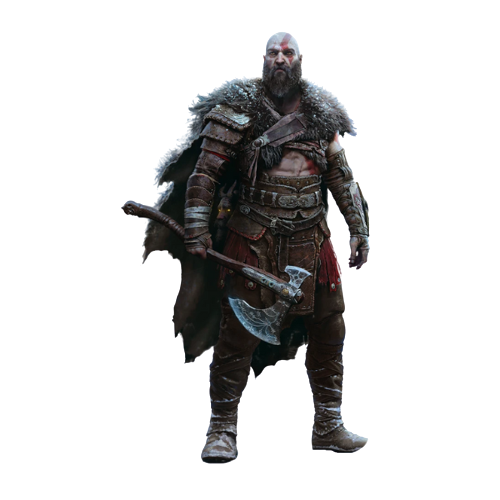
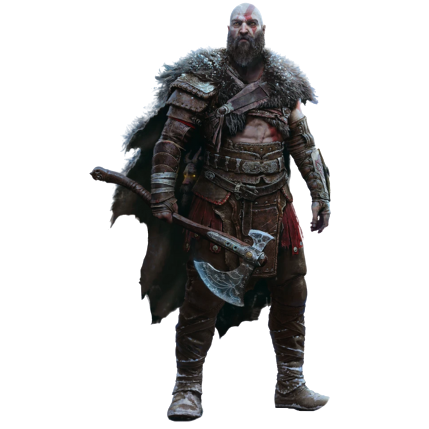
update

Changed region(s): [[0.2121, 0.0, 0.7879, 1.0]]

diff --git a/src/css/style.css b/src/css/style.css
@@ -119,10 +119,19 @@ ul > li > img{
 }
 
 
-@media (max-width: 1366px){
+@media (max-width: 1367px){
     header > img{
         width: 250px;
         margin-top: -30px;
+    }
+
+    .personagem-selecionado {
+        margin-left: 0px;
+        margin-right: 0px;
+    }
+    
+    .personagem-grande{
+        width: 350px;
     }
 }
 
@@ -148,12 +157,12 @@ ul > li > img{
     }
 
     .lista-de-personagens{
-        grid-template-columns: 10.417vw 10.417vw 10.417vw 10.417vw;
-        gap: 50px;
+        grid-template-columns: 90px 90px 90px 90px;
+        gap: 70px;
     }
 
     .personagem{
-        width: 10.417vw;
+        width: 150px;
     }
 
     .descricao-personagem{
@@ -187,8 +196,13 @@ ul > li > img{
         width: 130px;
     }
 
+    .personagem{
+        width: 130px;
+    }
+
     .personagem-grande{
         margin-top: 30px;
+        width: 250px;
     }
     
 }
@@ -204,7 +218,6 @@ ul > li > img{
     }
 
     .lista-de-personagens{
-        /* margin-left: -10px; */
         grid-template-columns: 90px 90px 90px 90px;
         gap: 10px;
     }
@@ -213,8 +226,13 @@ ul > li > img{
         width: 90px;
     }
 
-    .personagem-grande{
-        width: 110px;
+    .personagem{
+        width: 90px;
     }
+
+    .personagem-grande{
+        width: 200px;
+    }
+    
 
 }
